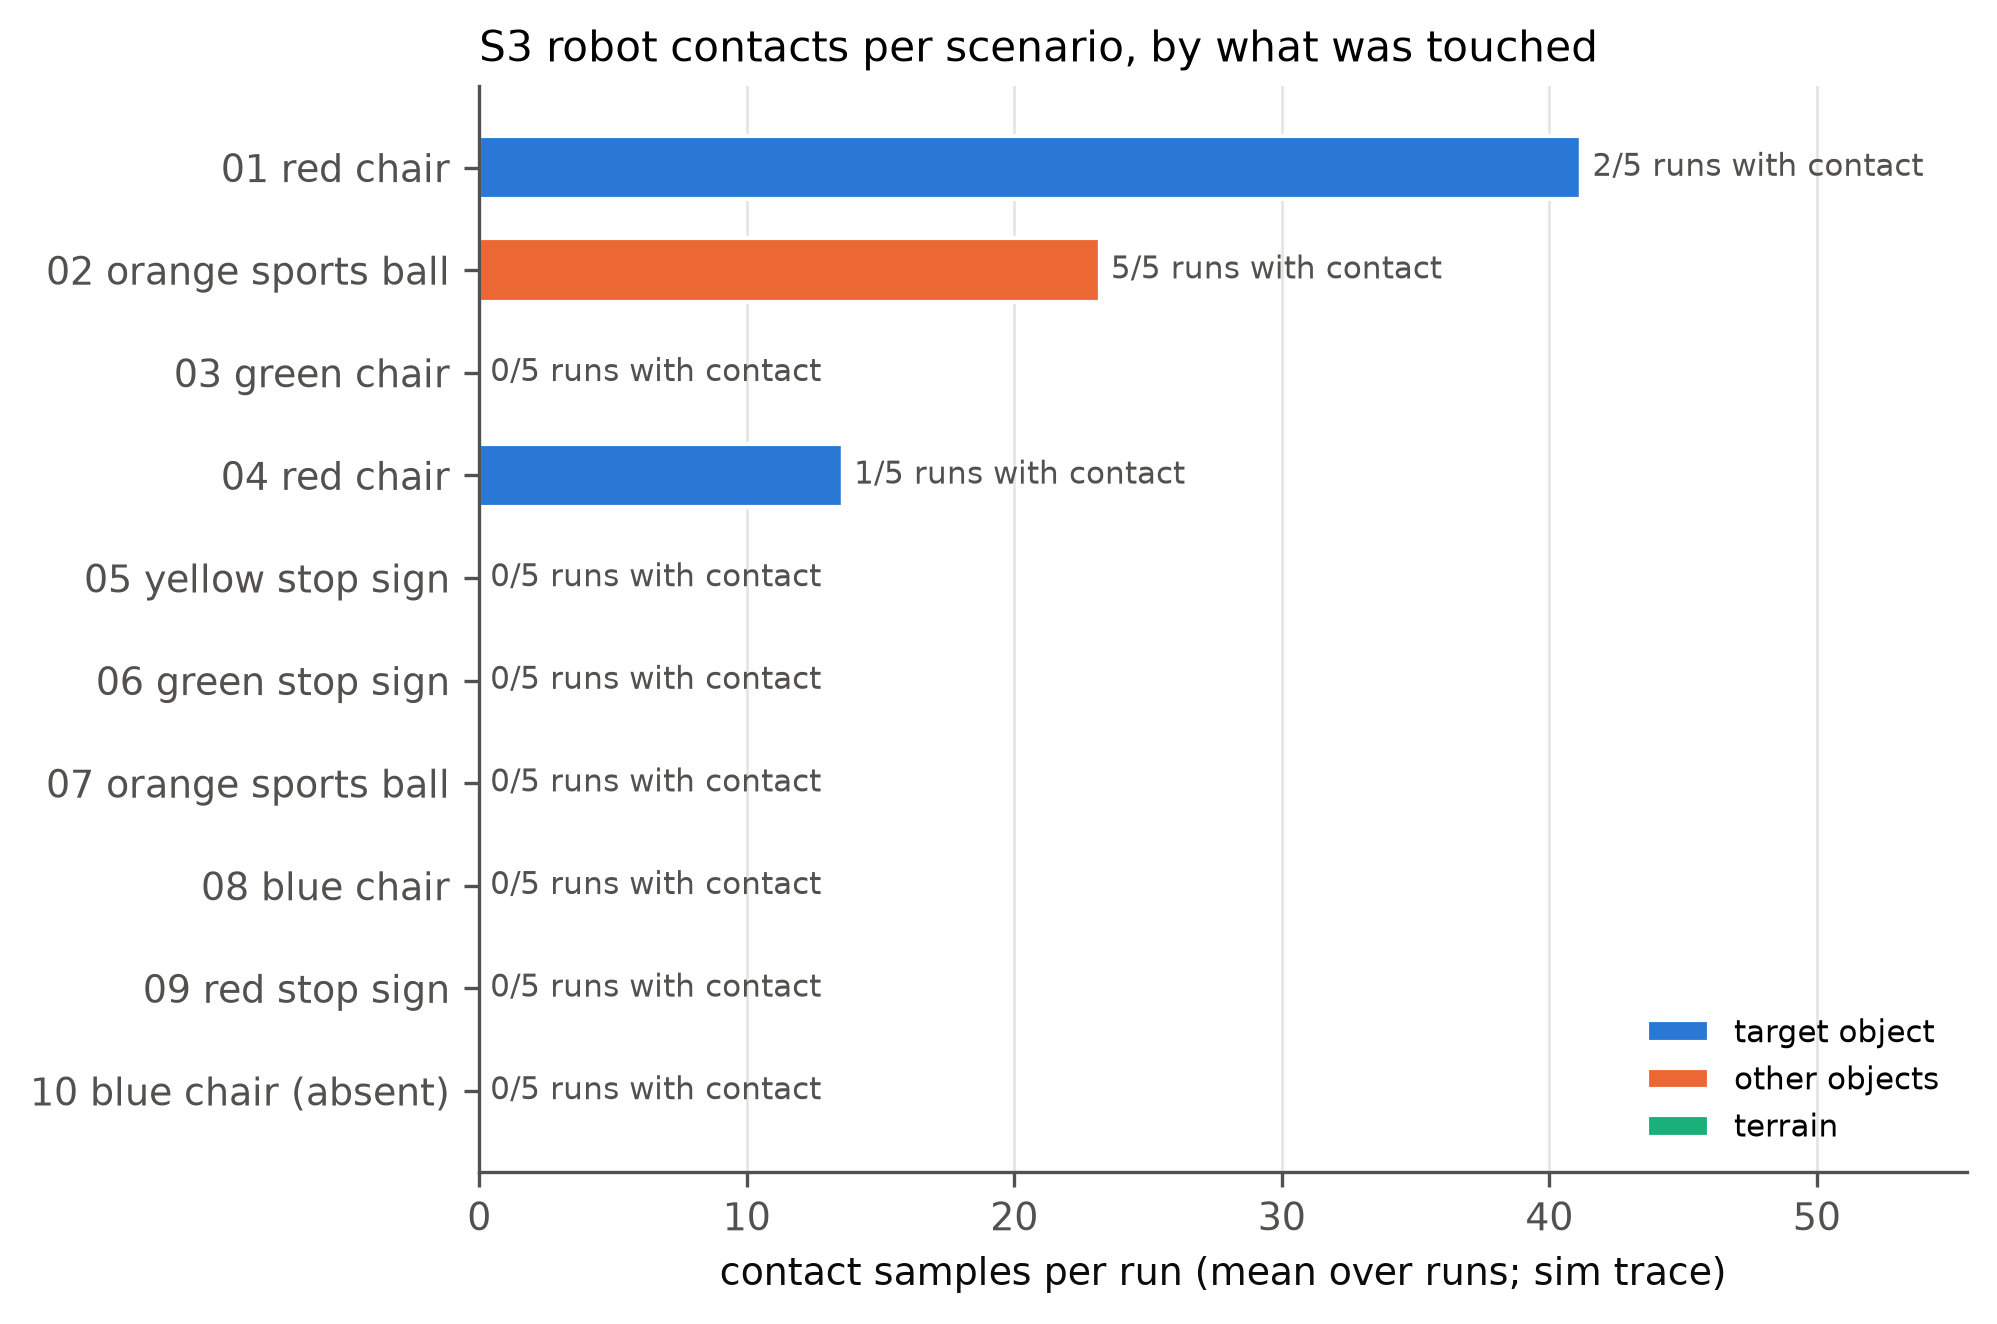
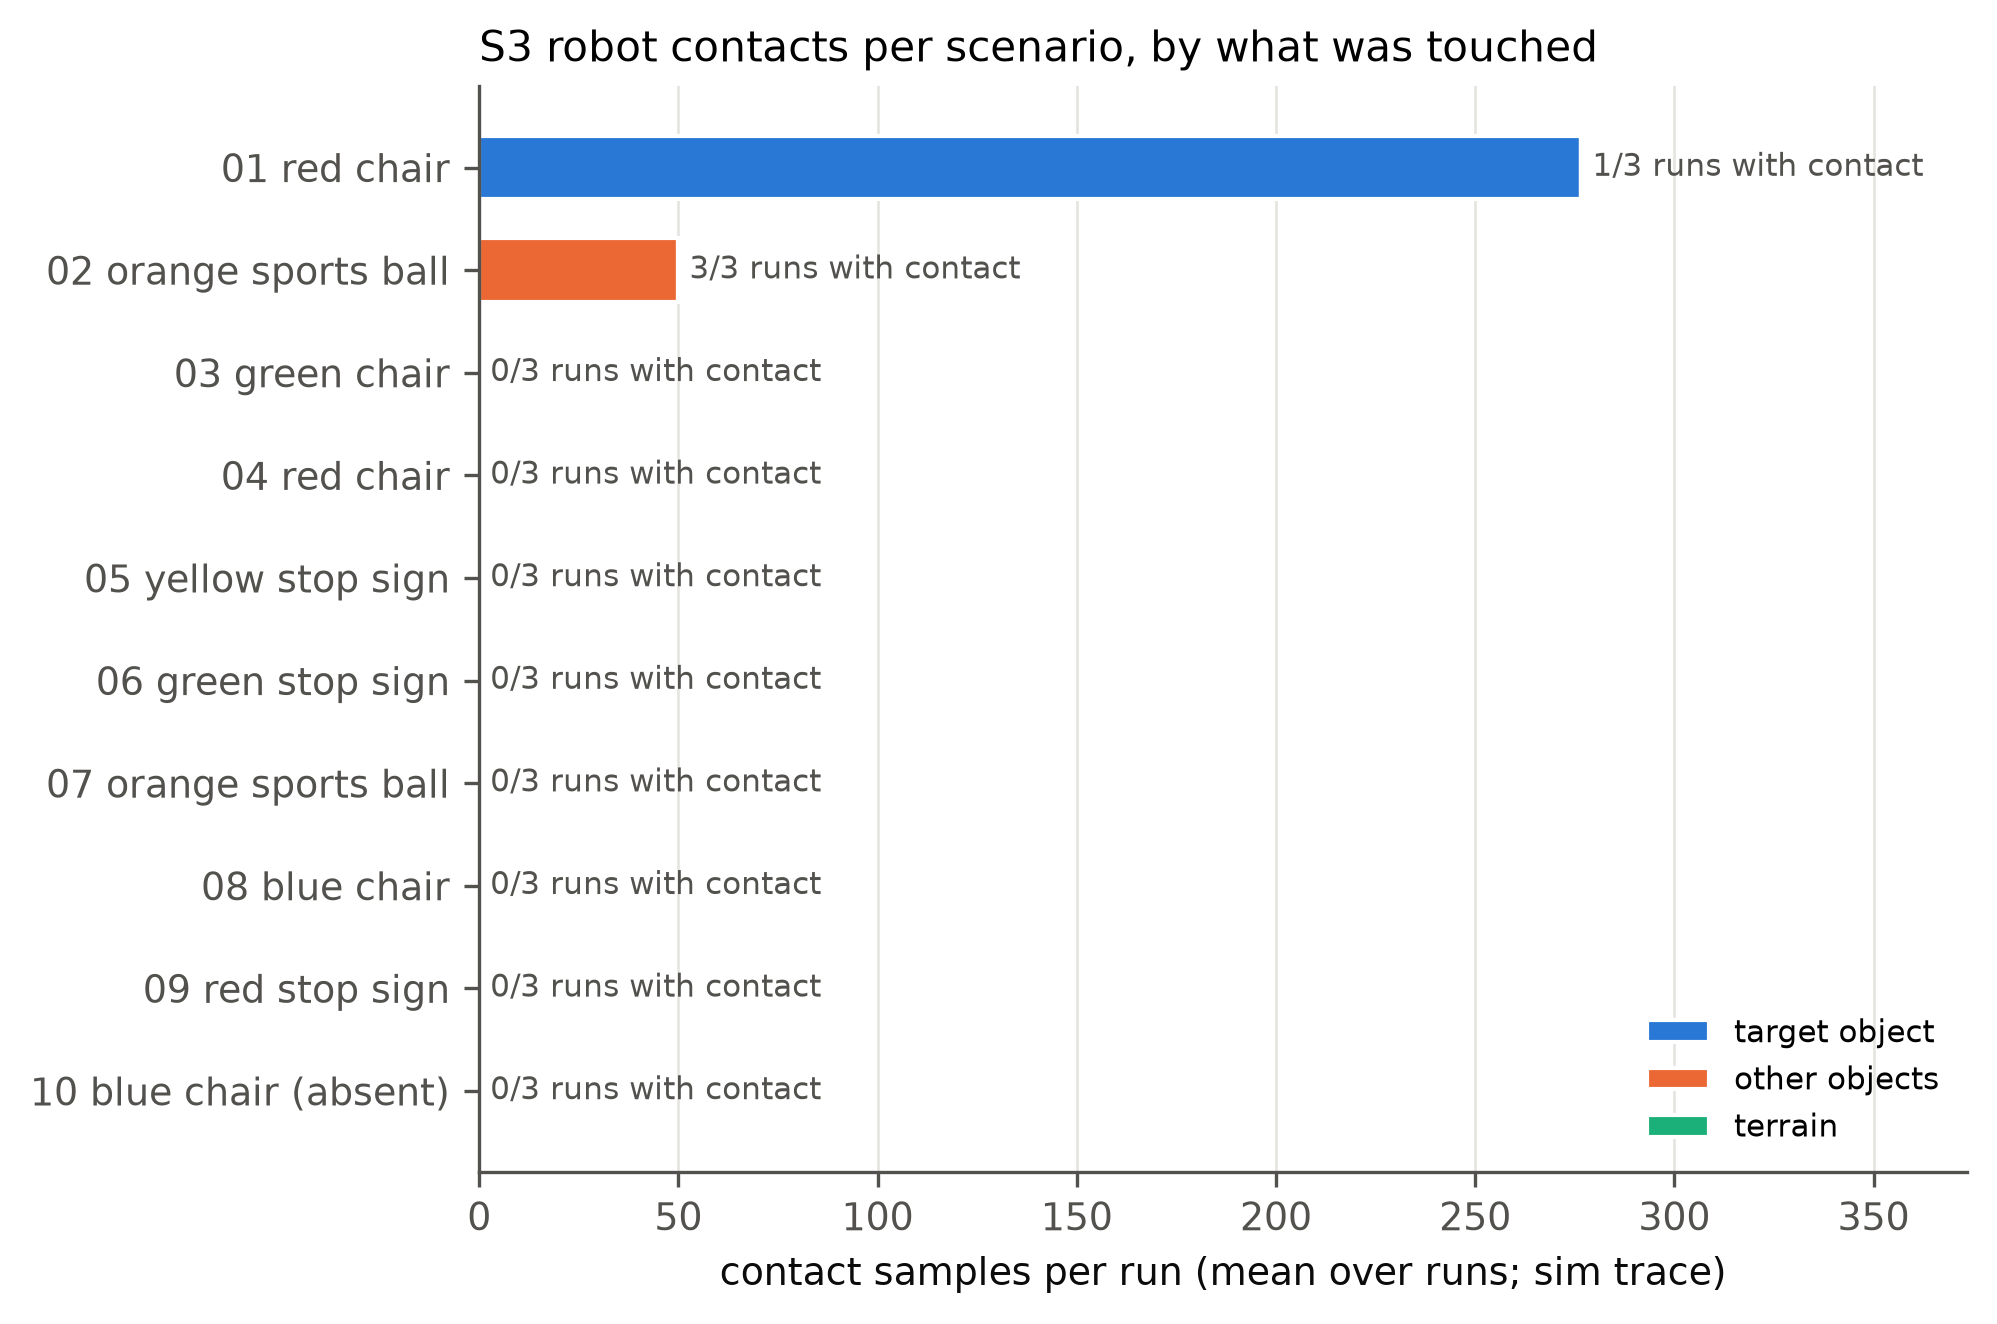
[ALL] docs (final-r4): S3 n=3 on final-r3 (18/30, 6.0/run) vs final-r2, report assets for final-r3, r3 video log, README (EOF quit, --mock without platform, clone final-r4, 290 tests)
Docs only (*.md and docs/**); code identical to tag final-r3.

Claude-Session: https://claude.ai/code/session_01WRE7QYLRVKxpHpTbW1sWZG

diff --git a/docs/report_assets/final/CAPTIONS.md b/docs/report_assets/final/CAPTIONS.md
@@ -1,13 +1,12 @@
 # Figure captions (generated by make_assets.py; do not edit by hand)
 
-- `s3_success_ci.png` — S3 (Task 4) strict success per scenario (true stop distance ≤ 0.80 m, no fall; scenario 10 = correct not-found), dot = k/n, line = Wilson 95 % CI; n = 5 runs per scenario, 50 trials pooled (28/50); runs: 20261004-1357_fixfinal_s3_r1, 20261004-1404_fixfinal_s3_r2, 20261004-1410_fixfinal_s3_r3, 20261004-1438_tag_s3_r4, 20261004-1445_tag_s3_r5 (given on the command line); source eval/e2e/results/<run>/results.jsonl.
-- `s3_history.png` — S3 strict success per run (k/10 scenarios, one trial each) in chronological order, coloured by era (GT height (sim xpos) + v4/v5: 10 runs; no-GT height: 2 runs; final (fix/final, tag final): 5 runs); hatched = before the per-class stop margin; 17 runs plotted; run-to-era mapping and exclusions in s3_history.csv; source eval/e2e/results/<run>/results.jsonl.
+- `s3_success_ci.png` — S3 (Task 4) strict success per scenario (true stop distance ≤ 0.80 m, no fall; scenario 10 = correct not-found), dot = k/n, line = Wilson 95 % CI; n = 3 runs per scenario, 30 trials pooled (18/30); runs: 20261004-1716_rc_s3_r1, 20261004-1739_rc_s3_r2, 20261004-1754_rc_s3_r3 (given on the command line); source eval/e2e/results/<run>/results.jsonl.
+- `s3_history.png` — S3 strict success per run (k/10 scenarios, one trial each) in chronological order, coloured by era (GT height (sim xpos) + v4/v5: 7 runs; no-GT height: 2 runs; final (fix/final, tag final): 5 runs; rc (final-r3 candidate): 3 runs); hatched = before the per-class stop margin; 17 runs plotted; run-to-era mapping and exclusions in s3_history.csv; source eval/e2e/results/<run>/results.jsonl.
 - `parser_v5_v6.png` — LLM command-parser accuracy per category and model on the Standard set (45 commands) and the held-out Hard set (71), one run each, bar label = ok/n; prompt v5 vs v6 (v6 for gemini-3.8-flash, gpt-5-nano, qwen-flash only); source eval/results/{v5,hard/v5} and eval/results/{v6,hard/v6}/<model>.jsonl (eval/task3_eval.py).
 - `turn_accuracy_latency.png` — Task 2 turns before vs after F3: (left) mean |settled heading error| per commanded angle, left/right pooled, closed-loop RealSkills.turn (n = 36, 12 per angle) vs executor 45° chunked turns (n = 18, 6 per angle); (right) stop latency when 'stop' arrives 0.8 s into a 180° turn, single turn vs chunked (n = 3 + 3); source docs/report_assets/task2/logs/turn_trials_*.jsonl, f3_exec_*.jsonl, f3_stop_latency.jsonl.
-- `contacts.png` — S3 robot contact samples per scenario split into target object / other objects / terrain (mean per run; label = runs with any contact / runs), from eval.contact_classes of the S3 runs of figure 1: 5 runs (20261004-1357_fixfinal_s3_r1, 20261004-1404_fixfinal_s3_r2, 20261004-1410_fixfinal_s3_r3, 20261004-1438_tag_s3_r4, 20261004-1445_tag_s3_r5), 50 scenario trials; source eval/e2e/results/<run>/results.jsonl.
+- `contacts.png` — S3 robot contact samples per scenario split into target object / other objects / terrain (mean per run; label = runs with any contact / runs), from eval.contact_classes of the S3 runs of figure 1: 3 runs (20261004-1716_rc_s3_r1, 20261004-1739_rc_s3_r2, 20261004-1754_rc_s3_r3), 30 scenario trials; source eval/e2e/results/<run>/results.jsonl.
 - `parser_latency_cost.png` — LLM command-parser latency (p50 bar, p95 tick; LLM calls only, n = 43 per model/prompt) and cost per 100 commands (logged prompt/completion tokens × eval/task3_eval.py PRICES, USD per 1M tokens; precheck rejects cost 0) on the Standard set (45 commands, 1 run) for prompts v4 and v5; source eval/results/{v4,v5}/<model>.jsonl.
 
-Regenerate (repo root): `env -u PYTHONPATH .venv/bin/python docs/report_assets/final/make_assets.py --results-root eval/e2e/results docs/report_assets/final/e2e_runs --s3-runs 20261004-1357_fixfinal_s3_r1 20261004-1404_fixfinal_s3_r2 20261004-1410_fixfinal_s3_r3 20261004-1438_tag_s3_r4 20261004-1445_tag_s3_r5 --v6`
-
+Regenerate (repo root): `env -u PYTHONPATH .venv/bin/python docs/report_assets/final/make_assets.py --results-root eval/e2e/results docs/report_assets/final/e2e_runs --s3-runs 20261004-1716_rc_s3_r1 20261004-1739_rc_s3_r2 20261004-1754_rc_s3_r3 --v6`
 <!-- manual additions: not produced by make_assets.py; re-append after regenerating -->
 - `vlm_vs_yolo_scaled.png` — Recall (class + colour) of YOLO (yolo11n, conf 0.2, imgsz 736, perception_real colour grounding) vs the VLM (qwen3-vl-flash, one JSON-detection call per frame) on 31 onboard 640×480 dog_front_camera frames (12 saved by real-sim runs, hand-labelled; 19 rendered from the main scene with tools/task4_color_testset.py, labelled from segmentation pixel counts), 70 visible objects; left per object, right per subset (n = objects); legend gives false positives and wrong-class labels; source docs/report_assets/final/vlm_vs_yolo_scaled.csv (tools/vlm_scaled_eval.py).

diff --git a/eval/e2e/S3_final_r3_n3.md b/eval/e2e/S3_final_r3_n3.md
@@ -1,0 +1,34 @@
+<!-- [B] S3 on tag final-r3 (n = 3) vs final-r2 (n = 5). Written by Student B. -->
+# S3 strict success: final-r3 (n = 3) vs final-r2 (n = 5)
+
+final-r3 = final-r2 + iter/close-range-c1 (re-identify the target on a final label conflict) + prompt v5.1
+(iter/state-unseen) + fix/hygiene (harness SIGINT stop, --mock without platform, EOF quit, launch-race readiness
+wait) + scaled VLM eval (docs). Runs: `eval/e2e/results/20261004-{1716,1739,1754}_rc_s3_r{1,2,3}` on branch `rc`,
+code identical to tag final-r3 (headless `--no-video`; summary.md + results.jsonl only, no raw traces).
+
+**final-r3: 18/30 = 6.0 per run (5, 7, 6), Wilson 95 % [0.42, 0.75]; final-r2: 28/50 = 5.6 per run [0.42, 0.69].**
+Target-contact runs: final-r3 1/30 (r1 sc01: chair lost at close range, growing re-acquire strafes pushed the robot
+into it, true d 0.24 m — the known re-acquire limitation, fixed on the unmerged iter/chair-safety); final-r2 3/50.
+Other-object contact: sc02 touches the red stop sign on the way to the ball in 3/3 (final-r2 5/5).
+Not merged (gates failed): iter/chair-safety (sc01+sc04 5/6, 0 target contacts, but sc03/sc08 1/2 each),
+iter/avoid (26/30 strict incl. stop signs, but 2 false [FOUND] on sc06 and target/other contacts).
+
+| # | Target | final-r2, n5 (n=5) | final-r3, n3 (n=3) |
+|---|---|---|---|
+| 01 | red chair | 2/5 (true d 0.58, 0.64, 0.62, 0.68, 0.65; contact runs target 2, other 0) | 1/3 (true d 0.24, 0.6, 0.66; contact runs target 1, other 0) |
+| 02 | orange sports ball | 4/5 (true d 0.64, 0.67, 0.62, 0.64, 0.69; contact runs target 0, other 5) | 3/3 (true d 0.61, 0.61, 0.63; contact runs target 0, other 3) |
+| 03 | green chair | 5/5 (true d 0.67, 0.69, 0.68, 0.69, 0.72; contact runs target 0, other 0) | 2/3 (true d 0.72, 0.71, 0.68; contact runs target 0, other 0) |
+| 04 | red chair | 2/5 (true d 0.63, 0.64, 0.61, 0.66, 0.61; contact runs target 1, other 0) | 3/3 (true d 0.63, 0.62, 0.59; contact runs target 0, other 0) |
+| 05 | yellow stop sign | 0/5 (true d 3.78, 3.77, 3.78, 3.79, 3.78; contact runs target 0, other 0) | 0/3 (true d 3.78, 3.77, 3.77; contact runs target 0, other 0) |
+| 06 | green stop sign | 0/5 (true d 5.05, 5.04, 5.05, 5.05, 5.03; contact runs target 0, other 0) | 0/3 (true d 5.05, 5.05, 5.06; contact runs target 0, other 0) |
+| 07 | orange sports ball | 5/5 (true d 0.66, 0.62, 0.65, 0.64, 0.59; contact runs target 0, other 0) | 3/3 (true d 0.59, 0.66, 0.66; contact runs target 0, other 0) |
+| 08 | blue chair | 5/5 (true d 0.63, 0.67, 0.65, 0.65, 0.68; contact runs target 0, other 0) | 3/3 (true d 0.62, 0.68, 0.62; contact runs target 0, other 0) |
+| 09 | red stop sign | 0/5 (true d 1.27, 1.26, 1.27, 1.27, 1.27; contact runs target 0, other 0) | 0/3 (true d 1.27, 1.31, 1.27; contact runs target 0, other 0) |
+| 10 | blue chair | 5/5 (true d None, None, None, None, None; contact runs target 0, other 0) | 3/3 (true d None, None, None; contact runs target 0, other 0) |
+| | **all** | **28/50** (56 %) | **18/30** (60 %) |
+
+| Class | final-r2, n5 | final-r3, n3 |
+|---|---|---|
+| chair | strict 14/20; SUCCESS 14 (true d mean/max 0.66/0.72, 0 > 0.80 m); stop_verification 4; contact 3 | strict 9/12; SUCCESS 9 (true d mean/max 0.64/0.71, 0 > 0.80 m); stop_verification 2; contact 1 |
+| sports ball | strict 9/10; SUCCESS 9 (true d mean/max 0.64/0.67, 0 > 0.80 m); stop_verification 1; contact 5 | strict 6/6; SUCCESS 6 (true d mean/max 0.63/0.66, 0 > 0.80 m); stop_verification 0; contact 3 |
+| stop sign | strict 0/15; SUCCESS 0 (true d mean/max –, 0 > 0.80 m); stop_verification 0; contact 0 | strict 0/9; SUCCESS 0 (true d mean/max –, 0 > 0.80 m); stop_verification 0; contact 0 |

diff --git a/README.md b/README.md
@@ -25,11 +25,11 @@ the LLM call runs on CPU.
 ```bash
 # 0. Clone this repo and the example platform SIDE BY SIDE — eval/run_env.sh
 #    looks for ../quadruped_mujoco (override with $QUADRUPED_MUJOCO_ROOT).
-#    run_env.sh checks for the platform on EVERY run, --mock included.
-#    Graders: clone the submitted tag (--branch final), not the default branch.
+#    run_env.sh checks for the platform on every run except --mock.
+#    Graders: clone the submitted tag (--branch final-r4), not the default branch.
 #    Skip the platform if your group chose a different one (Section V of the
 #    handout) and point skills/skills_real.py's TODOs at its API instead.
-git clone --branch final https://github.com/joshboo1019-coder/EE4705-mini_project.git
+git clone --branch final-r4 https://github.com/joshboo1019-coder/EE4705-mini_project.git
 git clone https://github.com/aoqianz/quadruped_mujoco.git
 cd EE4705-mini_project
 
@@ -97,9 +97,9 @@ and how `core/config.LLM_SERVICE` selects between them.
 Always through `eval/run_env.sh` from the repo root. Type English commands at
 the prompt ("walk forward 1 m", "turn left 90 degrees", "go to the red
 chair", "look: what is in front of you?"); `v` + Enter records a spoken command
-(bonus, needs a microphone); Ctrl+C quits (end of stdin does NOT quit:
-the chat thread stops but the sim keeps running, so a piped run needs
-`timeout` or Ctrl+C).
+(bonus, needs a microphone); Ctrl+C quits, and so does Ctrl+D / the end of
+piped input, after the queued commands have run (`[CHAT] input closed (EOF)`),
+e.g. `printf 'go to the green chair\n' | eval/run_env.sh main.py --scenario 3`.
 
 | Flag | Effect |
 |---|---|
@@ -166,7 +166,7 @@ eval/run_env.sh -m pytest -q tests/test_architecture.py   # enforces the dialogu
 eval/run_env.sh -m pytest -q tests/test_handoff.py        # main.py's wiring (real flags on: boots headless sim + YOLO)
 ```
 
-On the `final` tag the whole offline suite passes (283 passed, 1 xfailed,
+On the `final-r3` tag the whole offline suite passes (290 passed, 1 xfailed,
 ~31 s). [`docs/REPRODUCE.md`](docs/REPRODUCE.md) records an EARLIER
 fresh-clone check of `main` (95 passed, 6 failed, segfault) and is
 historical only.
@@ -190,7 +190,7 @@ minutes). Results land in `eval/results/` (Task 3), `eval/e2e/results/<run>/`
 (e2e) and `docs/report_assets/` (Task 2 / Task 4).
 
 ```bash
-# Unit / contract tests (fake LLM, no sim): 283 passed, 1 xfailed
+# Unit / contract tests (fake LLM, no sim): 290 passed, 1 xfailed
 eval/run_env.sh -m pytest -q tests/
 eval/run_env.sh -m pytest -q tests/test_no_ground_truth.py   # no OBJECT_POSITIONS / xpos in decision code
 

diff --git a/docs/VIDEO_CUES.md b/docs/VIDEO_CUES.md
@@ -47,3 +47,8 @@ Source: `tools/video_task2_demo.py` on `main.py`'s RealSkills (no LLM).
 | Video_Task4 | `~/Videos/candidates/Video_Task4_final_tag.mp4` | 50.3 s | 9.2 MB | all ✓ | scenario 8 (blue chair, `[SEARCH]`, true d 0.60 m) + scenario 3 (green chair, true d 0.68 m), 0 contacts (run `20261004-1429_video_task4_tag`), 1920×1080. Fallback: `Video_Task4_final.mp4`. |
 | Video_Bonus (a) | `~/Videos/candidates/Video_Bonus_typed_final_tag.mp4` | 167.6 s | 25 MB | (a) ✓ | look ×2 (VLM + YOLO `[DETECT]` on the same frame) + 2-goal mission `[MULTI] status=SUCCESS reached=2/2` (red chair 0.77 m, ball 0.57 m). Two takes joined: in the single take the mission after the looks was rejected by the LLM ("impossible: object not seen" — v5 STATE limitation), and one fresh-launch mission take was PARTIAL (red chair missed); the kept mission take is a separate fresh launch. |
 | Video_Bonus (b)+(c) | dry run `~/Videos/candidates/Video_Bonus_final_dryrun.mp4` | 192.6 s | 27 MB | (b) pending (B speaks live) | `tools/record_bonus.sh --dry-run` (typed stand-ins, mic audio) + `tools/concat_bonus.sh` → 1920×1080 H.264/AAC: scripts proven. |
+| **final-r3 takes** (worktree of tag `final-r3`, DP-1 work area 2494×1408+811+2192; harness stops programs with SIGINT, 0 keys held after every take) | | | | | |
+| Video_Task2 r3 | `~/Videos/candidates/Video_Task2_r3.mp4` | 80.1 s | 19 MB | all ✓ | 46 s take from tag final (6/6) + 34 s `tools/v2_compare_turn.py` segment on final-r3: closed-loop turn −1.3° / +2.5° vs open-loop −67.9° / −136.1°. |
+| Video_Task3 r3 | `~/Videos/candidates/Video_Task3_r3.mp4` | 36.8 s | 6.6 MB | all ✓ | parser v5.1; same 6 typed lines as before (turn, multi-step, clarify, reject, program + `[ESTOP]`). |
+| Video_Task4 r3 | `~/Videos/candidates/Video_Task4_r3.mp4` | 51.1 s | 9.3 MB | all ✓ | sc8 (true d 0.69, 0 contacts) + sc3 retake (true d 0.67, 0 contacts); first sc3 take touched the chair (9 samples) and was not used. |
+| Video_Bonus (a) r3 | `~/Videos/candidates/Video_Bonus_typed_r3_onetake.mp4` | 87.9 s | 32 MB | look ✓, VLM vs YOLO ✓, multi-goal **PARTIAL** | ONE take: "go to the red chair, then the orange ball" → `[MULTI] status=PARTIAL reached=1/2 missed=red_chair` (2 takes, both PARTIAL), then 2 looks. demo_bonus order (looks first) was rejected twice by v5.1 ("object_not_seen" after look history). The 2/2 SUCCESS version stays `Video_Bonus_typed_final_tag.mp4` (two takes joined, tag final). |
